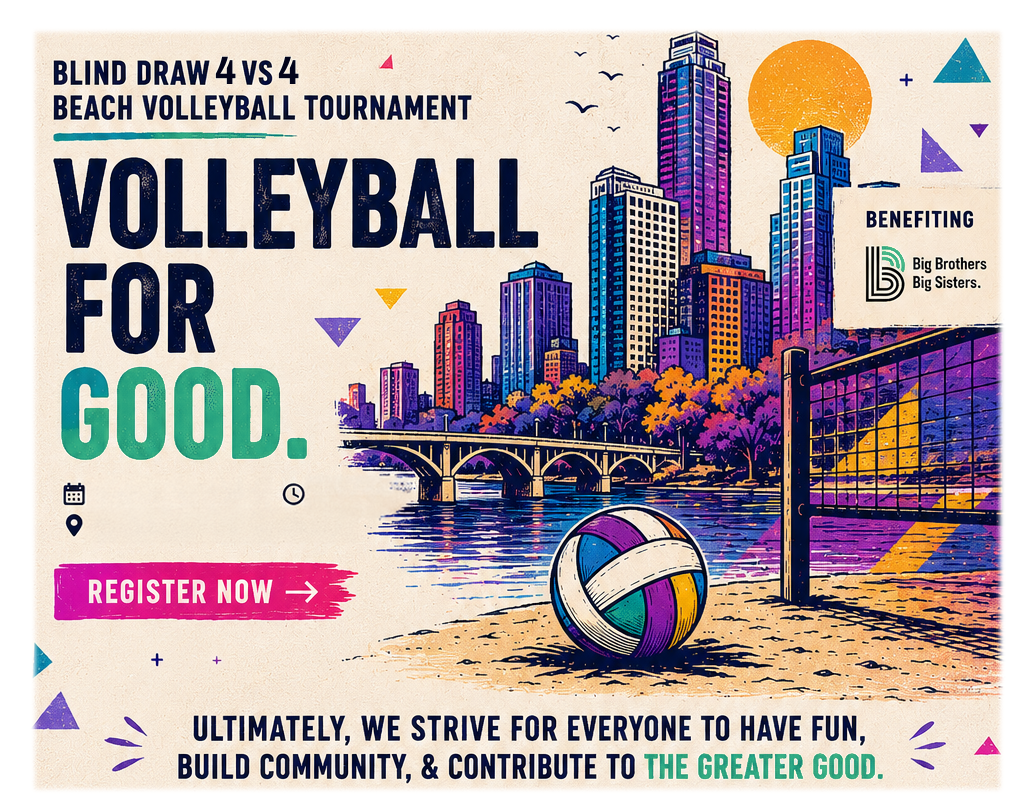
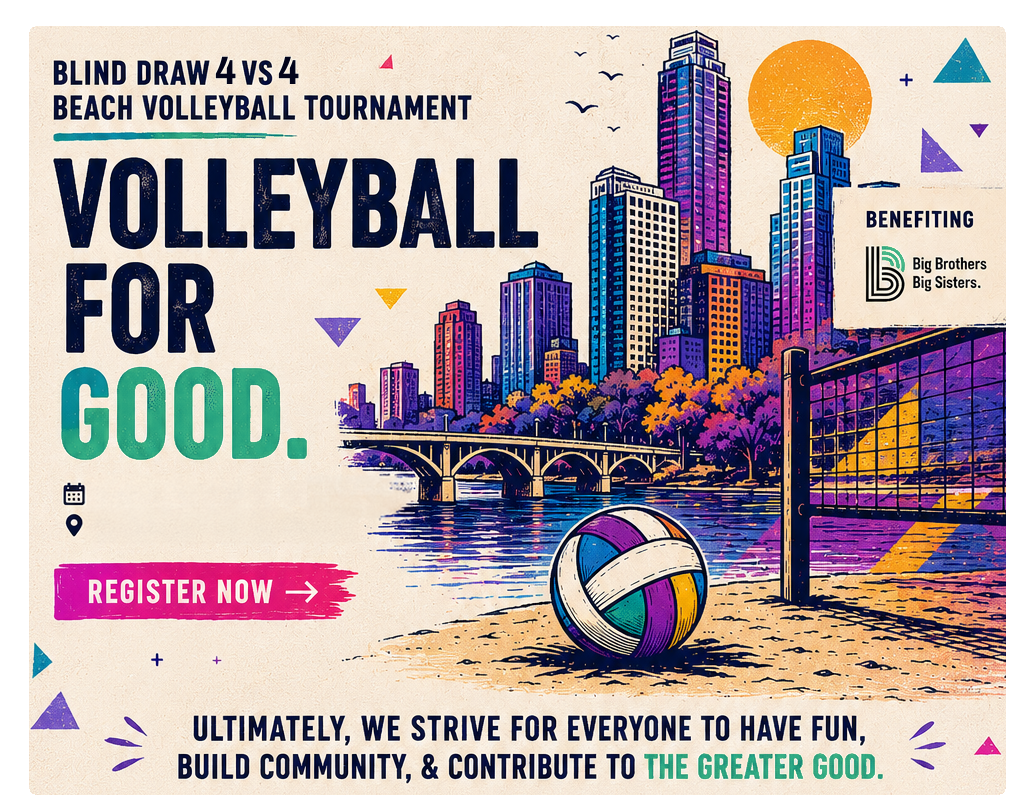
Stage v5: remove time + clock from home poster

Changed region(s): [[0.0312, 0.0308, 1.0, 0.9864], [0.2812, 0.5857, 0.3125, 0.6165], [0.0312, 0.8015, 0.0625, 0.8323]]

diff --git a/TBD_v5/css/site.css b/TBD_v5/css/site.css
@@ -46,7 +46,6 @@ header{background:var(--cream);position:relative;z-index:10}
   text-shadow:0 0 2px #FEFAF2,0 0 3px #FEFAF2,0 0 5px #FEFAF2}
 .ov-date{left:9.4%;  top:61%; font-size:2.05cqw}
 .ov-loc {left:9.4%;  top:65%; font-size:2.05cqw}
-.ov-time{left:31%; top:61%; font-size:2.05cqw; text-shadow:none}
 .slice.spon{aspect-ratio:1024 / 653}
 .slice.spon img{margin-top:-86.25%}      /* show poster 57.5% -> 100% */
 

diff --git a/TBD_v5/index.php b/TBD_v5/index.php
@@ -27,11 +27,10 @@
      the image anymore — they're HTML text overlaid on the icons below, so updating the
      event details is a one-line edit here (no image editing). -->
 <div class="slice home">
-  <img src="assets/poster.png?v=5" alt="The Big Draw — Blind Draw 4s beach volleyball tournament, November 7th, 2026 at Aussies Grill & Beach Bar. Volleyball for Good, benefiting Big Brothers Big Sisters.">
+  <img src="assets/poster.png?v=6" alt="The Big Draw — Blind Draw 4s beach volleyball tournament, November 7th, 2026 at Aussies Grill & Beach Bar. Volleyball for Good, benefiting Big Brothers Big Sisters.">
 
   <!-- ►► EVENT DETAILS — edit this text to update the poster (no image editing needed) -->
   <span class="poster-ov ov-date">November 7th, 2026</span>
-  <span class="poster-ov ov-time">9AM &ndash; 6PM</span>
   <span class="poster-ov ov-loc">Aussies Grill &amp; Beach Bar</span>
 
   <!-- Register Now button hotspot -->

diff --git a/TBD_v5/includes/header.php b/TBD_v5/includes/header.php
@@ -14,7 +14,7 @@
 <link rel="preconnect" href="https://fonts.googleapis.com">
 <link rel="preconnect" href="https://fonts.gstatic.com" crossorigin>
 <link href="https://fonts.googleapis.com/css2?family=Archivo+Black&family=Archivo:wght@500;600;700;800;900&family=Saira+Condensed:wght@600;700&display=swap" rel="stylesheet">
-<link rel="stylesheet" href="css/site.css?v=19">
+<link rel="stylesheet" href="css/site.css?v=20">
 </head>
 <body class="<?= htmlspecialchars($body_class ?? '') ?>">
 <header><div class="bar">
